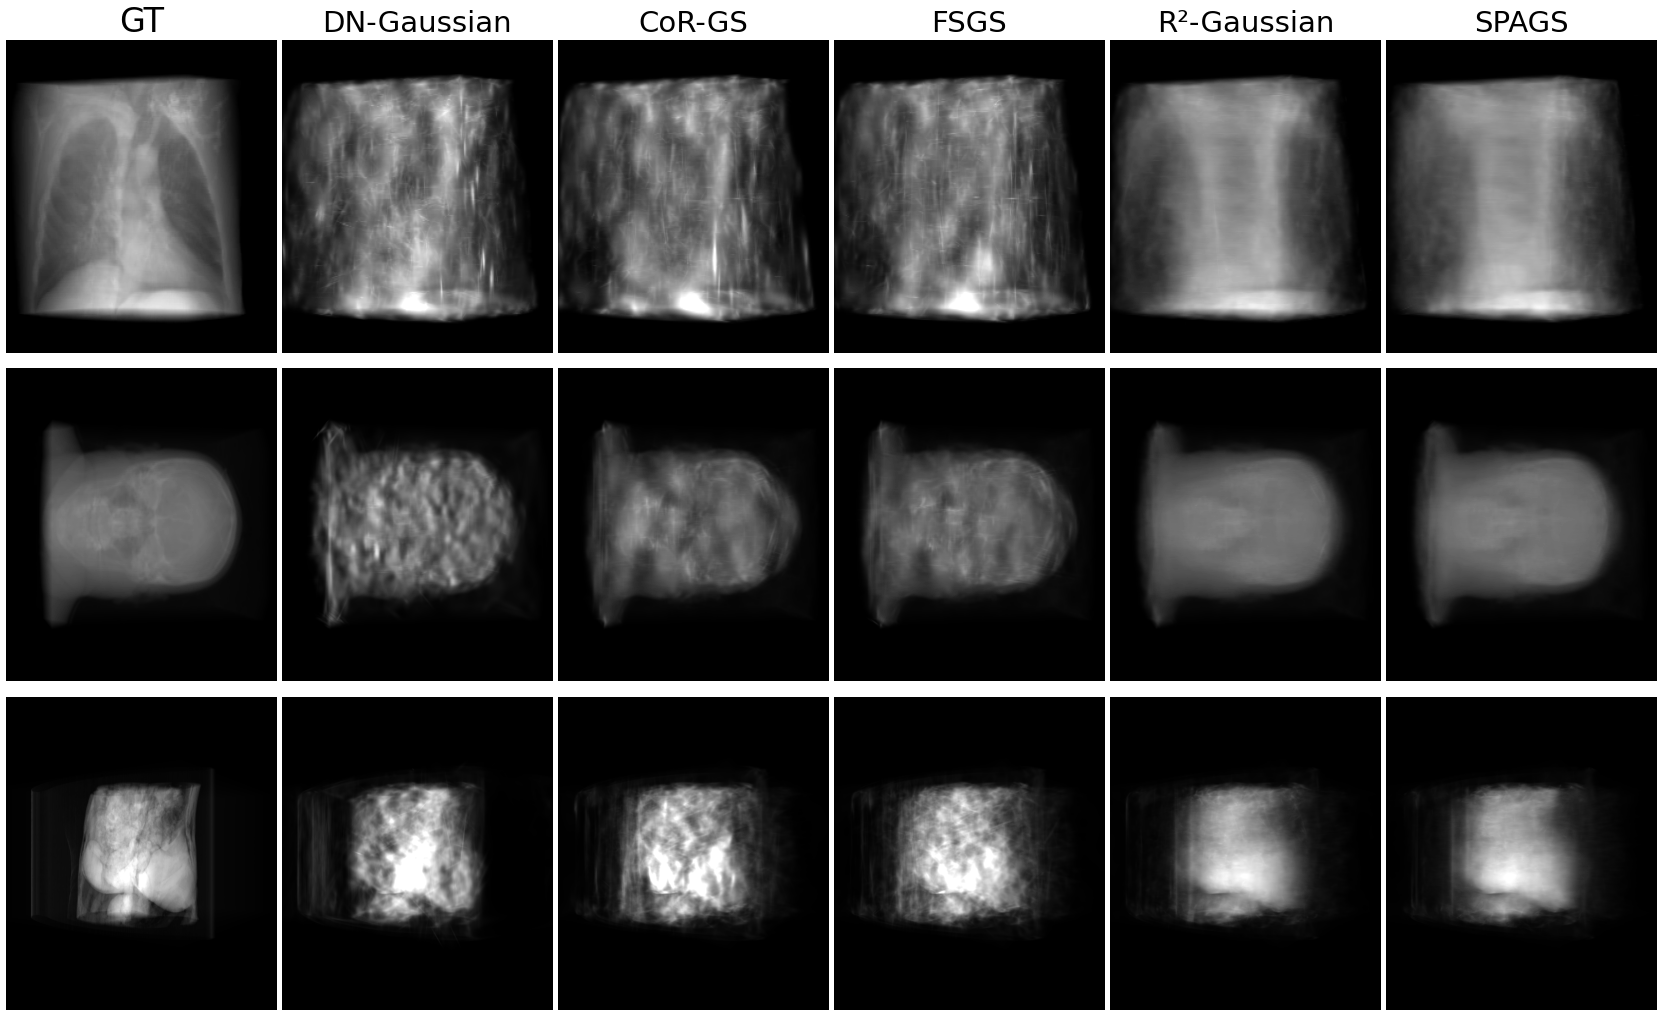
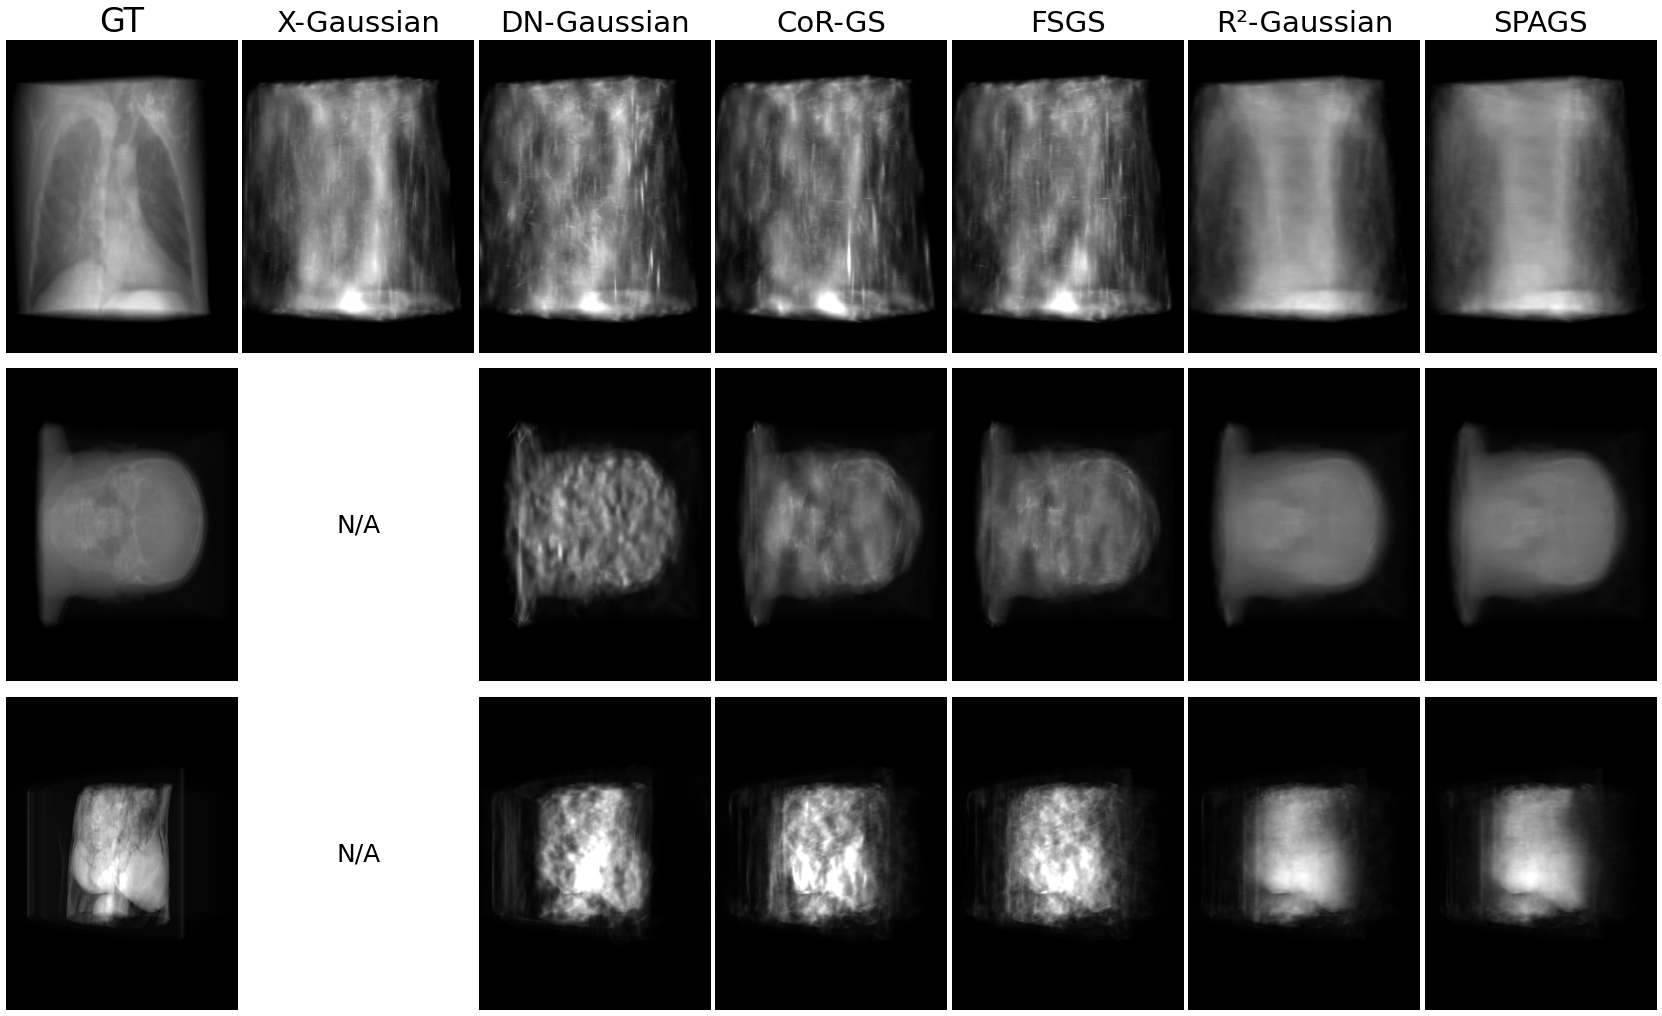
Add X-Gaussian renders, update all figures with 6-method comparison

diff --git a/scripts/render_xgaussian.py b/scripts/render_xgaussian.py
@@ -1,0 +1,173 @@
+#!/usr/bin/env python3
+"""
+Render X-Gaussian - minimal approach.
+No argparse, just direct object creation.
+"""
+import os, sys, glob, yaml
+import torch
+import numpy as np
+from PIL import Image
+from tqdm import tqdm
+
+sys.path.insert(0, "/home/qyhu/Documents/r2_ours/PG2026")
+
+
+def render_xgaussian_organ(organ):
+    BASE = "/home/qyhu/Documents/r2_ours/PG2026"
+    
+    dirs = glob.glob(f"{BASE}/output/*{organ}*3v*xgaussian*")
+    dirs = [d for d in dirs if 'opt_' not in os.path.basename(d)]
+    if not dirs:
+        print(f"  ❌ {organ}: no dir")
+        return False
+    
+    model_path = dirs[0]
+    source_path = f"{BASE}/data/369/{organ}_50_3views.pickle"
+    output_iter = 30000
+    test_dir = f"{model_path}/test/iter_{output_iter}/render_test"
+    
+    if os.path.isdir(test_dir) and len(os.listdir(test_dir)) > 10:
+        print(f"  ✅ {organ}: already done")
+        return True
+    
+    print(f"  🔄 {organ}...")
+    
+    from r2_gaussian.arguments import ModelParams, PipelineParams
+    from r2_gaussian.dataset import Scene
+    from r2_gaussian.baselines.xgaussian.model import XGaussianModel
+    from r2_gaussian.baselines.xgaussian.renderer import render_xgaussian
+    from r2_gaussian.utils.general_utils import safe_state
+    from r2_gaussian.utils.image_utils import metric_proj
+    
+    safe_state(True)
+    device = torch.device("cuda")
+    
+    from argparse import ArgumentParser
+    parser = ArgumentParser()
+    dataset = ModelParams(parser)
+    dataset.source_path = source_path
+    dataset.model_path = model_path
+    dataset.data_device = "cuda"
+    dataset.eval = True
+    
+    # Load init file path from cfg_args
+    if os.path.exists(f"{model_path}/cfg_args"):
+        with open(f"{model_path}/cfg_args") as f:
+            content = f.read()
+        import ast
+        # Simple parse: extract ply_path value
+        if "ply_path=" in content:
+            start = content.index("ply_path=") + 9
+            end = content.index(",", start) if "," in content[start:] else content.index(")", start)
+            val = content[start:end].strip().strip("'\"")
+            if val and val != "''" and val != '""':
+                dataset.ply_path = val
+        # Extract scale_min/scale_max
+        for key in ['scale_min', 'scale_max']:
+            if f"{key}=" in content:
+                start = content.index(f"{key}=") + len(key) + 1
+                end = content.index(",", start) if "," in content[start:] else content.index(")", start)
+                val = content[start:end].strip()
+                try:
+                    setattr(dataset, key, float(val))
+                except:
+                    pass
+    
+    # Create PipelineParams
+    pipe = PipelineParams(parser)
+    
+    # Create scene
+    scene = Scene(dataset, shuffle=False)
+    test_cameras = scene.getTestCameras()
+    if not test_cameras:
+        print(f"  ❌ {organ}: no test cameras")
+        return False
+    print(f"     {len(test_cameras)} test cameras")
+    
+    # Create model
+    gaussians = XGaussianModel(sh_degree=3, scale_bound=None)
+    
+    # Initialize from R2 init
+    if dataset.ply_path and os.path.exists(dataset.ply_path):
+        gaussians.create_from_r2_init(dataset.ply_path, spatial_lr_scale=1.0)
+    else:
+        init_path = dataset.ply_path or f"{BASE}/data/369/init_{organ}_50_3views.npy"
+        if os.path.exists(init_path):
+            gaussians.create_from_r2_init(init_path, spatial_lr_scale=1.0)
+            print(f"     init from {init_path}")
+        else:
+            print(f"  ❌ {organ}: no init file")
+            return False
+    
+    print(f"     init: {gaussians.get_xyz.shape[0]} points")
+    
+    # Load checkpoint
+    ckpt = torch.load(f"{model_path}/xgaussian_iter_{output_iter}.pth", map_location="cpu")
+    state_dict = ckpt[0] if isinstance(ckpt, tuple) else ckpt
+    
+    # Restore
+    for key in ['_xyz', '_features_dc', '_features_rest', '_scaling', '_rotation', '_opacity']:
+        if key in state_dict:
+            getattr(gaussians, key).data = state_dict[key].to(device)
+    gaussians.active_sh_degree = state_dict.get('active_sh_degree', 3)
+    if hasattr(gaussians, 'max_radii2D'):
+        gaussians.max_radii2D = torch.zeros(gaussians.get_xyz.shape[0], device=device)
+    if hasattr(gaussians, 'denom'):
+        gaussians.denom = torch.ones(gaussians.get_xyz.shape[0], device=device)
+    if 'spatial_lr_scale' in state_dict:
+        gaussians.spatial_lr_scale = state_dict['spatial_lr_scale']
+    
+    # Move to GPU
+    for attr in ['_xyz', '_features_dc', '_features_rest', '_scaling', '_rotation', '_opacity',
+                 'max_radii2D', 'denom', 'xyz_gradient_accum']:
+        if hasattr(gaussians, attr) and isinstance(getattr(gaussians, attr), torch.Tensor):
+            setattr(gaussians, attr, getattr(gaussians, attr).to(device))
+    
+    # Render
+    os.makedirs(test_dir, exist_ok=True)
+    render_list, gt_list = [], []
+    
+    for idx, camera in enumerate(tqdm(test_cameras, desc=f"X-G {organ}", leave=False)):
+        camera = camera.to(device)
+        try:
+            render_pkg = render_xgaussian(camera, gaussians, pipe)
+            rendering = render_pkg["render"]
+            gt = camera.original_image.to(device)
+            
+            pred_img = rendering[0].detach().cpu().numpy()
+            gt_img = gt[0].detach().cpu().numpy()
+            pred_img = np.clip(pred_img, 0, 1)
+            gt_img = np.clip(gt_img, 0, 1)
+            
+            Image.fromarray((pred_img * 255).astype(np.uint8)).save(f"{test_dir}/{idx:05d}_pred.png")
+            Image.fromarray((gt_img * 255).astype(np.uint8)).save(f"{test_dir}/{idx:05d}_gt.png")
+            render_list.append(rendering[0])
+            gt_list.append(gt[0])
+        except Exception as e:
+            print(f"     view {idx}: {e}")
+    
+    if render_list:
+        images = torch.stack(render_list, dim=0)
+        gt_images = torch.stack(gt_list, dim=0)
+        psnr_2d, psnr_projs = metric_proj(gt_images, images, "psnr")
+        ssim_2d, ssim_projs = metric_proj(gt_images, images, "ssim")
+        
+        eval_dir = f"{model_path}/eval/iter_{output_iter:06d}"
+        os.makedirs(eval_dir, exist_ok=True)
+        with open(f"{eval_dir}/eval2d_xgaussian.yml", "w") as f:
+            yaml.dump({"psnr_2d": float(psnr_2d), "ssim_2d": float(ssim_2d),
+                      "psnr_2d_projs": [float(p) for p in psnr_projs],
+                      "ssim_2d_projs": [float(p) for p in ssim_projs]},
+                     f, default_flow_style=False, sort_keys=False)
+        
+        print(f"  ✅ {organ}: PSNR={psnr_2d:.2f}")
+    else:
+        print(f"  ❌ {organ}: no renders")
+    
+    return True
+
+
+if __name__ == "__main__":
+    for organ in ["chest", "head", "abdomen", "foot", "pancreas"]:
+        render_xgaussian_organ(organ)
+    print("\n✅ Done!")

diff --git a/scripts/render_experiment_figures.py b/scripts/render_experiment_figures.py
@@ -24,6 +24,7 @@ BEST_VIEWS = {"chest": 10, "head": 25, "pancreas": 35}
 
 # Method order and display names
 METHODS = [
+    ("xgaussian", "X-Gaussian"),
     ("dngaussian", "DN-Gaussian"),
     ("corgs", "CoR-GS"),
     ("fsgs", "FSGS"),
@@ -32,11 +33,12 @@ METHODS = [
 ]
 
 METHOD_COLORS = {
+    "X-Gaussian": "#c0c0c0",
     "DN-Gaussian": "#8f8f8f",
     "CoR-GS": "#a0a0a0",
     "FSGS": "#b0b0b0",
-    "X-Gaussian": "#c0c0c0",
     "R²-Gaussian": "#4a7bb5",
+    "R²-G": "#4a7bb5",
     "SPAGS (Ours)": "#c44e52",
     "SPAGS": "#c44e52",
 }
@@ -50,7 +52,7 @@ def find_best_dir(organ, method_key):
         "fsgs": lambda d: "fsgs" in d and "opt_" not in d,
         "corgs": lambda d: "corgs" in d and "opt_" not in d,
         "dngaussian": lambda d: "dngaussian" in d and "opt_" not in d,
-        "xgaussian": lambda d: "xgaussian" in d and "opt_" not in d,
+        "xgaussian": lambda d: "xgaussian" in d and "opt_" not in d and "retry" not in d and "adaptive" not in d,
     }
     
     all_dirs = sorted(glob.glob(f"{BASE}/output/*{organ}*3v*"))